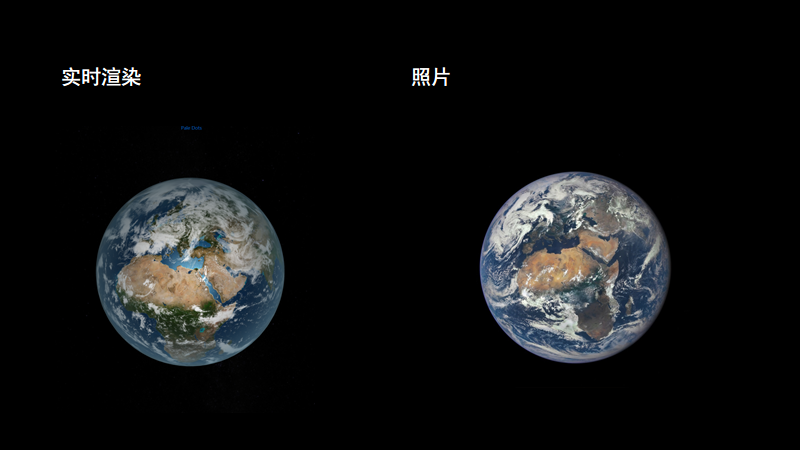
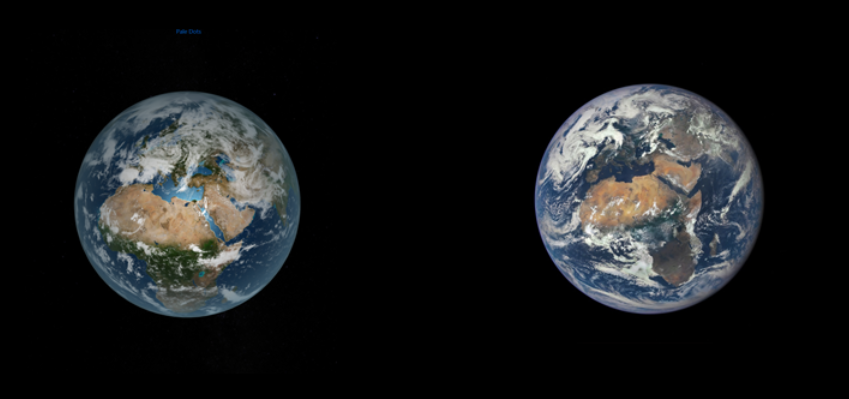
updated readmemd

diff --git a/index.html b/index.html
@@ -35,7 +35,7 @@
             <line x1="18.36" y1="5.64" x2="19.78" y2="4.22"></line>
         </svg>
     </button>
-    <a href="https://github.com/solarcg/SolarSys" target="_blank" rel="noopener">Pale Dots</a>
+
 </div>
     <!-- Libraries -->
     <script src="js/libs/jquery-3.2.1.min.js"></script>

diff --git a/readme.md b/readme.md
@@ -33,3 +33,35 @@ An interactive 3D simulation of our solar system built with three.js
 ![](./images/5.png) 
 
 ![](./images/6.png) 
+
+---
+
+## Getting Started
+
+### Prerequisites
+- Node.js (make sure it is installed on your system)
+
+### Setup & Run (Development)
+
+Follow these steps in your terminal:
+
+```sh
+# 1. Clone the repository (or download and unzip it)
+git clone <repository-url>
+cd Solarsystem-3D
+
+# 2. Install dependencies (if any)
+# (Skip if there is no package.json or dependencies)
+# npm install
+
+# 3. Start the development server
+node run.js
+```
+
+Now open your browser and go to:
+```
+http://localhost:8080
+```
+
+That's it! The 3D Solar System simulation should now be running locally.
+
